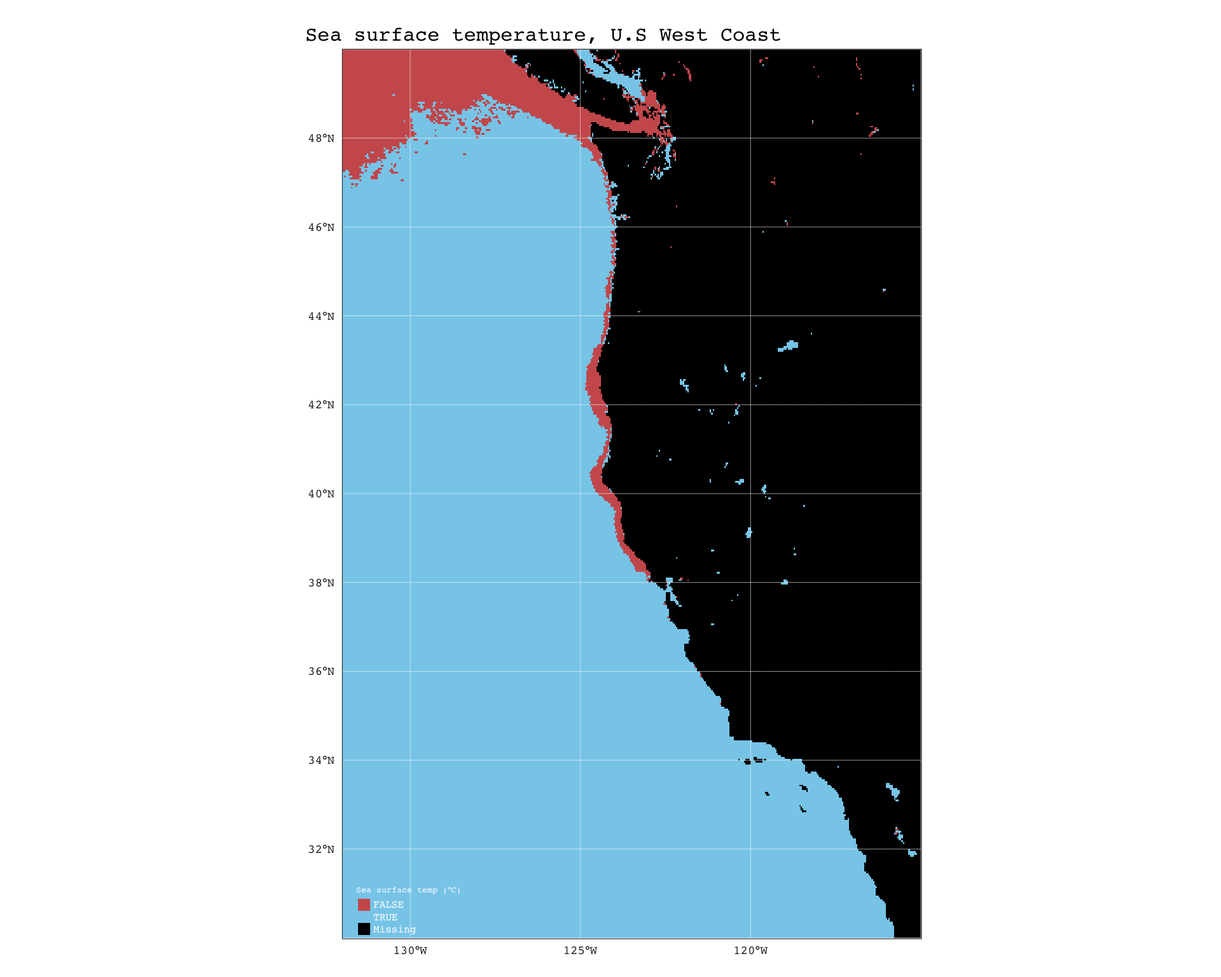
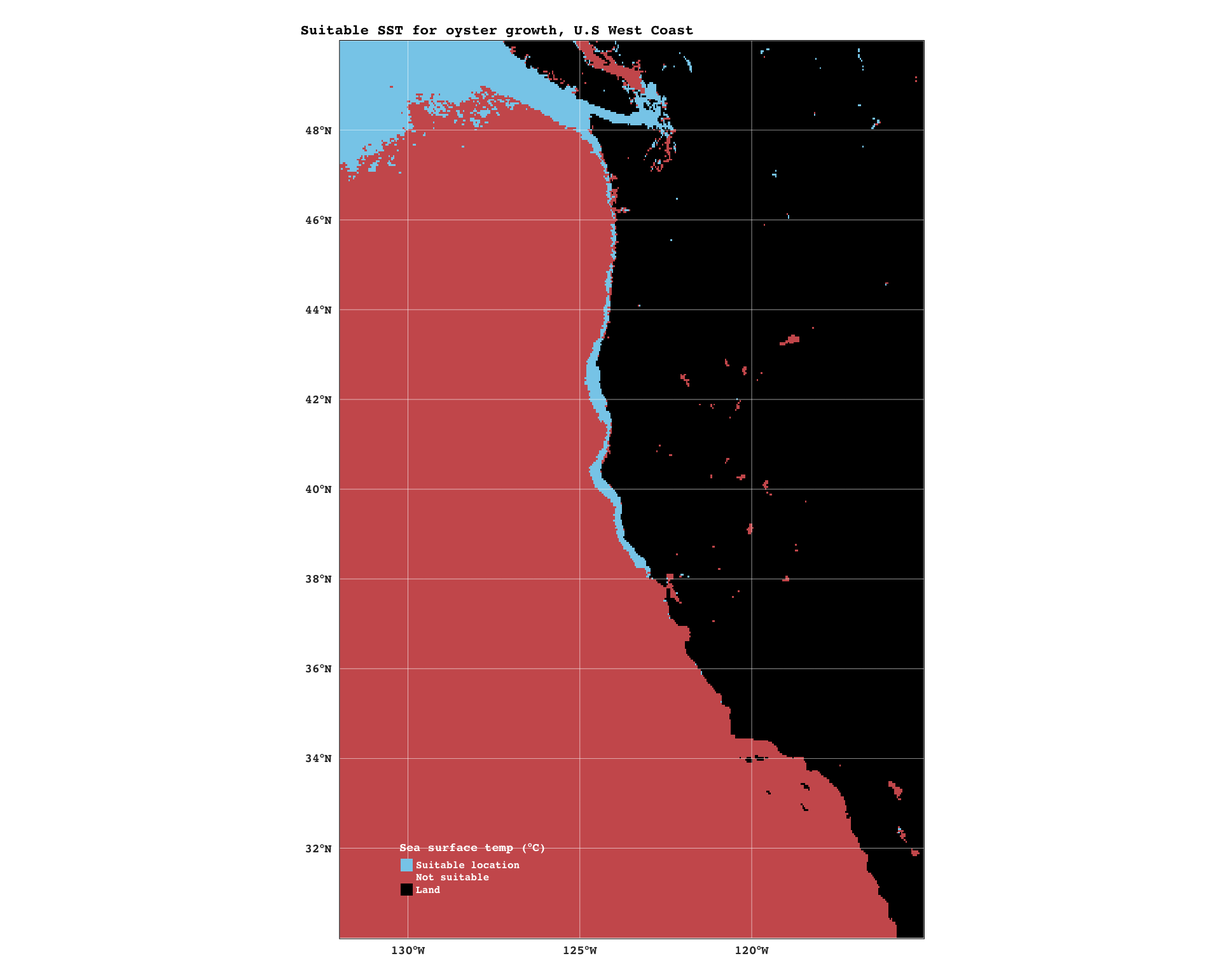
working on making depths above sea level equal NA

diff --git a/HW4.html b/HW4.html
@@ -7,7 +7,7 @@
 <meta name="viewport" content="width=device-width, initial-scale=1.0, user-scalable=yes">
 
 <meta name="author" content="Kaiju Morquecho">
-<meta name="dcterms.date" content="2024-12-05">
+<meta name="dcterms.date" content="2024-12-06">
 
 <title>Homework Assignment #4</title>
 <style>
@@ -81,7 +81,7 @@ pre > code.sourceCode > span > a:first-child::before { text-decoration: underlin
     <h2 id="toc-title">Table of contents</h2>
    
   <ul>
-  <li><a href="#sea-surface-temperature-11-30c" id="toc-sea-surface-temperature-11-30c" class="nav-link active" data-scroll-target="#sea-surface-temperature-11-30c">sea surface temperature: 11-30°C</a></li>
+  <li><a href="#sea-surface-temperature-11-30c-done" id="toc-sea-surface-temperature-11-30c-done" class="nav-link active" data-scroll-target="#sea-surface-temperature-11-30c-done">sea surface temperature: 11-30°C done</a></li>
   <li><a href="#depth-0-70-meters-below-sea-level" id="toc-depth-0-70-meters-below-sea-level" class="nav-link" data-scroll-target="#depth-0-70-meters-below-sea-level">depth: 0-70 meters below sea level</a></li>
   </ul>
 </nav>
@@ -108,7 +108,7 @@ pre > code.sourceCode > span > a:first-child::before { text-decoration: underlin
     <div>
     <div class="quarto-title-meta-heading">Published</div>
     <div class="quarto-title-meta-contents">
-      <p class="date">December 5, 2024</p>
+      <p class="date">December 6, 2024</p>
     </div>
   </div>
   
@@ -172,8 +172,8 @@ pre > code.sourceCode > span > a:first-child::before { text-decoration: underlin
 </div>
 <div class="cell">
 <div class="sourceCode cell-code" id="cb12"><pre class="sourceCode r code-with-copy"><code class="sourceCode r"><span id="cb12-1"><a href="#cb12-1" aria-hidden="true" tabindex="-1"></a>map1 <span class="ot">&lt;-</span> <span class="fu">tm_shape</span>(mean_sst) <span class="sc">+</span></span>
-<span id="cb12-2"><a href="#cb12-2" aria-hidden="true" tabindex="-1"></a>  <span class="fu">tm_raster</span>(<span class="at">palette =</span> <span class="fu">rev</span>(<span class="fu">hcl.colors</span>(<span class="dv">8</span>,<span class="st">"Mako"</span>)),</span>
-<span id="cb12-3"><a href="#cb12-3" aria-hidden="true" tabindex="-1"></a>            <span class="at">style =</span> <span class="st">"cont"</span>,</span>
+<span id="cb12-2"><a href="#cb12-2" aria-hidden="true" tabindex="-1"></a>  <span class="fu">tm_raster</span>(<span class="at">palette =</span> <span class="fu">rev</span>(<span class="fu">hcl.colors</span>(<span class="dv">5</span>,<span class="st">"YlGnBu"</span>)),</span>
+<span id="cb12-3"><a href="#cb12-3" aria-hidden="true" tabindex="-1"></a>            <span class="at">style =</span> <span class="st">"pretty"</span>,</span>
 <span id="cb12-4"><a href="#cb12-4" aria-hidden="true" tabindex="-1"></a>            <span class="at">colorNA =</span> <span class="st">"black"</span>,</span>
 <span id="cb12-5"><a href="#cb12-5" aria-hidden="true" tabindex="-1"></a>            <span class="at">title =</span> <span class="st">"Sea surface temp (°C)"</span>,</span>
 <span id="cb12-6"><a href="#cb12-6" aria-hidden="true" tabindex="-1"></a>            ) <span class="sc">+</span></span>
@@ -182,14 +182,15 @@ pre > code.sourceCode > span > a:first-child::before { text-decoration: underlin
 <span id="cb12-9"><a href="#cb12-9" aria-hidden="true" tabindex="-1"></a>  <span class="fu">tm_layout</span>(<span class="at">fontfamily =</span> <span class="st">"courier"</span>,</span>
 <span id="cb12-10"><a href="#cb12-10" aria-hidden="true" tabindex="-1"></a>            <span class="at">main.title =</span> <span class="st">"Sea surface temperature, U.S West Coast"</span>,</span>
 <span id="cb12-11"><a href="#cb12-11" aria-hidden="true" tabindex="-1"></a>            <span class="at">main.title.size =</span> <span class="dv">1</span>,</span>
-<span id="cb12-12"><a href="#cb12-12" aria-hidden="true" tabindex="-1"></a>            <span class="at">legend.position =</span> <span class="fu">c</span>(<span class="st">"left"</span>,<span class="st">"BOTTOM"</span>),</span>
-<span id="cb12-13"><a href="#cb12-13" aria-hidden="true" tabindex="-1"></a>            <span class="at">legend.text.size =</span> <span class="fl">0.5</span>,</span>
-<span id="cb12-14"><a href="#cb12-14" aria-hidden="true" tabindex="-1"></a>            <span class="at">legend.title.color =</span> <span class="st">"black"</span>,</span>
-<span id="cb12-15"><a href="#cb12-15" aria-hidden="true" tabindex="-1"></a>            <span class="at">legend.text.color =</span> <span class="st">"black"</span>,</span>
-<span id="cb12-16"><a href="#cb12-16" aria-hidden="true" tabindex="-1"></a>            <span class="at">legend.height =</span> <span class="dv">5</span>,</span>
-<span id="cb12-17"><a href="#cb12-17" aria-hidden="true" tabindex="-1"></a>            <span class="at">legend.title.size =</span> <span class="fl">0.5</span>)</span>
-<span id="cb12-18"><a href="#cb12-18" aria-hidden="true" tabindex="-1"></a></span>
-<span id="cb12-19"><a href="#cb12-19" aria-hidden="true" tabindex="-1"></a>map1</span></code><button title="Copy to Clipboard" class="code-copy-button"><i class="bi"></i></button></pre></div>
+<span id="cb12-12"><a href="#cb12-12" aria-hidden="true" tabindex="-1"></a>            <span class="at">inner.margins =</span> <span class="fu">c</span>(<span class="fl">0.001</span>, <span class="fl">0.001</span>, <span class="fl">0.001</span>, <span class="fl">0.001</span>),</span>
+<span id="cb12-13"><a href="#cb12-13" aria-hidden="true" tabindex="-1"></a>            <span class="at">legend.position =</span> <span class="fu">c</span>(<span class="st">"left"</span>,<span class="st">"BOTTOM"</span>),</span>
+<span id="cb12-14"><a href="#cb12-14" aria-hidden="true" tabindex="-1"></a>            <span class="at">legend.text.size =</span> <span class="fl">0.5</span>,</span>
+<span id="cb12-15"><a href="#cb12-15" aria-hidden="true" tabindex="-1"></a>            <span class="at">legend.title.color =</span> <span class="st">"black"</span>,</span>
+<span id="cb12-16"><a href="#cb12-16" aria-hidden="true" tabindex="-1"></a>            <span class="at">legend.text.color =</span> <span class="st">"black"</span>,</span>
+<span id="cb12-17"><a href="#cb12-17" aria-hidden="true" tabindex="-1"></a>            <span class="at">legend.height =</span> <span class="dv">5</span>,</span>
+<span id="cb12-18"><a href="#cb12-18" aria-hidden="true" tabindex="-1"></a>            <span class="at">legend.title.size =</span> <span class="fl">0.5</span>)</span>
+<span id="cb12-19"><a href="#cb12-19" aria-hidden="true" tabindex="-1"></a></span>
+<span id="cb12-20"><a href="#cb12-20" aria-hidden="true" tabindex="-1"></a>map1</span></code><button title="Copy to Clipboard" class="code-copy-button"><i class="bi"></i></button></pre></div>
 <div class="cell-output-display">
 <div>
 <figure class="figure">
@@ -199,101 +200,189 @@ pre > code.sourceCode > span > a:first-child::before { text-decoration: underlin
 </div>
 </div>
 <div class="cell">
-<div class="sourceCode cell-code" id="cb13"><pre class="sourceCode r code-with-copy"><code class="sourceCode r"><span id="cb13-1"><a href="#cb13-1" aria-hidden="true" tabindex="-1"></a><span class="co"># check that depth matches mean_sst crs and transform if not</span></span>
-<span id="cb13-2"><a href="#cb13-2" aria-hidden="true" tabindex="-1"></a><span class="cf">if</span>(<span class="fu">st_crs</span>(mean_sst) <span class="sc">==</span> <span class="fu">st_crs</span>(depth)) {</span>
-<span id="cb13-3"><a href="#cb13-3" aria-hidden="true" tabindex="-1"></a>  <span class="fu">print</span>(<span class="st">"crs match!"</span>)</span>
-<span id="cb13-4"><a href="#cb13-4" aria-hidden="true" tabindex="-1"></a>} <span class="cf">else</span> { </span>
-<span id="cb13-5"><a href="#cb13-5" aria-hidden="true" tabindex="-1"></a>  depth <span class="ot">&lt;-</span> <span class="fu">st_transform</span>(depth, <span class="fu">st_crs</span>(mean_sst))</span>
-<span id="cb13-6"><a href="#cb13-6" aria-hidden="true" tabindex="-1"></a>}</span></code><button title="Copy to Clipboard" class="code-copy-button"><i class="bi"></i></button></pre></div>
+<div class="sourceCode cell-code" id="cb13"><pre class="sourceCode r code-with-copy"><code class="sourceCode r"><span id="cb13-1"><a href="#cb13-1" aria-hidden="true" tabindex="-1"></a>test<span class="ot">&lt;-</span> <span class="fu">read_stars</span>(<span class="fu">here</span>(<span class="st">"data"</span>,<span class="st">"depth.tif"</span>))</span>
+<span id="cb13-2"><a href="#cb13-2" aria-hidden="true" tabindex="-1"></a></span>
+<span id="cb13-3"><a href="#cb13-3" aria-hidden="true" tabindex="-1"></a>test[test <span class="sc">&gt;</span> <span class="dv">0</span>] <span class="ot">&lt;-</span> <span class="cn">NA</span></span>
+<span id="cb13-4"><a href="#cb13-4" aria-hidden="true" tabindex="-1"></a></span>
+<span id="cb13-5"><a href="#cb13-5" aria-hidden="true" tabindex="-1"></a></span>
+<span id="cb13-6"><a href="#cb13-6" aria-hidden="true" tabindex="-1"></a>map2 <span class="ot">&lt;-</span> <span class="fu">tm_shape</span>(test) <span class="sc">+</span></span>
+<span id="cb13-7"><a href="#cb13-7" aria-hidden="true" tabindex="-1"></a>  <span class="fu">tm_raster</span>(<span class="at">palette =</span> <span class="fu">rev</span>(<span class="fu">hcl.colors</span>(<span class="dv">8</span>,<span class="st">"Mako"</span>)),</span>
+<span id="cb13-8"><a href="#cb13-8" aria-hidden="true" tabindex="-1"></a>            <span class="at">style =</span> <span class="st">"cont"</span>,</span>
+<span id="cb13-9"><a href="#cb13-9" aria-hidden="true" tabindex="-1"></a>            <span class="at">colorNA =</span> <span class="st">"black"</span>,</span>
+<span id="cb13-10"><a href="#cb13-10" aria-hidden="true" tabindex="-1"></a>            <span class="at">title =</span> <span class="st">"Sea surface temp (°C)"</span>,</span>
+<span id="cb13-11"><a href="#cb13-11" aria-hidden="true" tabindex="-1"></a>            ) <span class="sc">+</span></span>
+<span id="cb13-12"><a href="#cb13-12" aria-hidden="true" tabindex="-1"></a>  <span class="fu">tm_graticules</span>(<span class="at">lwd =</span> <span class="fl">0.3</span>,</span>
+<span id="cb13-13"><a href="#cb13-13" aria-hidden="true" tabindex="-1"></a>                <span class="at">col =</span> <span class="st">"white"</span>) <span class="sc">+</span></span>
+<span id="cb13-14"><a href="#cb13-14" aria-hidden="true" tabindex="-1"></a>  <span class="fu">tm_layout</span>(<span class="at">fontfamily =</span> <span class="st">"courier"</span>,</span>
+<span id="cb13-15"><a href="#cb13-15" aria-hidden="true" tabindex="-1"></a>            <span class="at">main.title =</span> <span class="st">"Sea surface temperature, U.S West Coast"</span>,</span>
+<span id="cb13-16"><a href="#cb13-16" aria-hidden="true" tabindex="-1"></a>            <span class="at">main.title.size =</span> <span class="dv">1</span>,</span>
+<span id="cb13-17"><a href="#cb13-17" aria-hidden="true" tabindex="-1"></a>            <span class="at">legend.position =</span> <span class="fu">c</span>(<span class="st">"left"</span>,<span class="st">"BOTTOM"</span>),</span>
+<span id="cb13-18"><a href="#cb13-18" aria-hidden="true" tabindex="-1"></a>            <span class="at">legend.text.size =</span> <span class="fl">0.5</span>,</span>
+<span id="cb13-19"><a href="#cb13-19" aria-hidden="true" tabindex="-1"></a>            <span class="at">legend.title.color =</span> <span class="st">"black"</span>,</span>
+<span id="cb13-20"><a href="#cb13-20" aria-hidden="true" tabindex="-1"></a>            <span class="at">legend.text.color =</span> <span class="st">"black"</span>,</span>
+<span id="cb13-21"><a href="#cb13-21" aria-hidden="true" tabindex="-1"></a>            <span class="at">legend.height =</span> <span class="dv">5</span>,</span>
+<span id="cb13-22"><a href="#cb13-22" aria-hidden="true" tabindex="-1"></a>            <span class="at">legend.title.size =</span> <span class="fl">0.5</span>)</span>
+<span id="cb13-23"><a href="#cb13-23" aria-hidden="true" tabindex="-1"></a></span>
+<span id="cb13-24"><a href="#cb13-24" aria-hidden="true" tabindex="-1"></a>map2</span></code><button title="Copy to Clipboard" class="code-copy-button"><i class="bi"></i></button></pre></div>
+<div class="cell-output-display">
+<div>
+<figure class="figure">
+<p><img src="HW4_files/figure-html/unnamed-chunk-5-1.png" class="img-fluid figure-img" width="672"></p>
+</figure>
+</div>
+</div>
 </div>
 <div class="cell">
-<div class="sourceCode cell-code" id="cb14"><pre class="sourceCode r code-with-copy"><code class="sourceCode r"><span id="cb14-1"><a href="#cb14-1" aria-hidden="true" tabindex="-1"></a><span class="co"># double-check after transformation </span></span>
+<div class="sourceCode cell-code" id="cb14"><pre class="sourceCode r code-with-copy"><code class="sourceCode r"><span id="cb14-1"><a href="#cb14-1" aria-hidden="true" tabindex="-1"></a><span class="co"># check that depth matches mean_sst crs and transform if not</span></span>
 <span id="cb14-2"><a href="#cb14-2" aria-hidden="true" tabindex="-1"></a><span class="cf">if</span>(<span class="fu">st_crs</span>(mean_sst) <span class="sc">==</span> <span class="fu">st_crs</span>(depth)) {</span>
 <span id="cb14-3"><a href="#cb14-3" aria-hidden="true" tabindex="-1"></a>  <span class="fu">print</span>(<span class="st">"crs match!"</span>)</span>
 <span id="cb14-4"><a href="#cb14-4" aria-hidden="true" tabindex="-1"></a>} <span class="cf">else</span> { </span>
-<span id="cb14-5"><a href="#cb14-5" aria-hidden="true" tabindex="-1"></a>  <span class="fu">print</span>(<span class="st">"crs don't match!"</span>)</span>
+<span id="cb14-5"><a href="#cb14-5" aria-hidden="true" tabindex="-1"></a>  depth <span class="ot">&lt;-</span> <span class="fu">st_transform</span>(depth, <span class="fu">st_crs</span>(mean_sst))</span>
 <span id="cb14-6"><a href="#cb14-6" aria-hidden="true" tabindex="-1"></a>}</span></code><button title="Copy to Clipboard" class="code-copy-button"><i class="bi"></i></button></pre></div>
+</div>
+<div class="cell">
+<div class="sourceCode cell-code" id="cb15"><pre class="sourceCode r code-with-copy"><code class="sourceCode r"><span id="cb15-1"><a href="#cb15-1" aria-hidden="true" tabindex="-1"></a><span class="co"># double-check after transformation </span></span>
+<span id="cb15-2"><a href="#cb15-2" aria-hidden="true" tabindex="-1"></a><span class="cf">if</span>(<span class="fu">st_crs</span>(mean_sst) <span class="sc">==</span> <span class="fu">st_crs</span>(depth)) {</span>
+<span id="cb15-3"><a href="#cb15-3" aria-hidden="true" tabindex="-1"></a>  <span class="fu">print</span>(<span class="st">"crs match!"</span>)</span>
+<span id="cb15-4"><a href="#cb15-4" aria-hidden="true" tabindex="-1"></a>} <span class="cf">else</span> { </span>
+<span id="cb15-5"><a href="#cb15-5" aria-hidden="true" tabindex="-1"></a>  <span class="fu">print</span>(<span class="st">"crs don't match!"</span>)</span>
+<span id="cb15-6"><a href="#cb15-6" aria-hidden="true" tabindex="-1"></a>}</span></code><button title="Copy to Clipboard" class="code-copy-button"><i class="bi"></i></button></pre></div>
 <div class="cell-output cell-output-stdout">
 <pre><code>[1] "crs match!"</code></pre>
 </div>
 </div>
 <div class="cell">
-<div class="sourceCode cell-code" id="cb16"><pre class="sourceCode r code-with-copy"><code class="sourceCode r"><span id="cb16-1"><a href="#cb16-1" aria-hidden="true" tabindex="-1"></a><span class="co"># match extents and resample to mean_sst resolution using nearest neighbor ("near")</span></span>
-<span id="cb16-2"><a href="#cb16-2" aria-hidden="true" tabindex="-1"></a>depth_resampled <span class="ot">&lt;-</span> <span class="fu">st_warp</span>(depth,mean_sst, <span class="at">method =</span> <span class="st">"near"</span>)</span>
-<span id="cb16-3"><a href="#cb16-3" aria-hidden="true" tabindex="-1"></a><span class="co"># stack to verify</span></span>
-<span id="cb16-4"><a href="#cb16-4" aria-hidden="true" tabindex="-1"></a>depth_sst <span class="ot">&lt;-</span> <span class="fu">c</span>(depth_resampled,mean_sst)</span>
-<span id="cb16-5"><a href="#cb16-5" aria-hidden="true" tabindex="-1"></a><span class="co"># stacked successfully </span></span></code><button title="Copy to Clipboard" class="code-copy-button"><i class="bi"></i></button></pre></div>
+<div class="sourceCode cell-code" id="cb17"><pre class="sourceCode r code-with-copy"><code class="sourceCode r"><span id="cb17-1"><a href="#cb17-1" aria-hidden="true" tabindex="-1"></a><span class="co"># match extents and resample to mean_sst resolution using nearest neighbor ("near")</span></span>
+<span id="cb17-2"><a href="#cb17-2" aria-hidden="true" tabindex="-1"></a>depth_resampled <span class="ot">&lt;-</span> <span class="fu">st_warp</span>(depth,mean_sst, <span class="at">method =</span> <span class="st">"near"</span>)</span>
+<span id="cb17-3"><a href="#cb17-3" aria-hidden="true" tabindex="-1"></a><span class="co"># stack to verify</span></span>
+<span id="cb17-4"><a href="#cb17-4" aria-hidden="true" tabindex="-1"></a>depth_sst <span class="ot">&lt;-</span> <span class="fu">c</span>(depth_resampled,mean_sst)</span>
+<span id="cb17-5"><a href="#cb17-5" aria-hidden="true" tabindex="-1"></a><span class="co"># stacked successfully </span></span></code><button title="Copy to Clipboard" class="code-copy-button"><i class="bi"></i></button></pre></div>
 </div>
 </section>
 <section id="find-suitable-locations-for-oysters" class="level5">
 <h5 class="anchored" data-anchor-id="find-suitable-locations-for-oysters">Find suitable locations for oysters</h5>
 <div class="cell">
-<div class="sourceCode cell-code" id="cb17"><pre class="sourceCode r code-with-copy"><code class="sourceCode r"><span id="cb17-1"><a href="#cb17-1" aria-hidden="true" tabindex="-1"></a>rcl <span class="ot">&lt;-</span> <span class="fu">matrix</span>(<span class="fu">c</span>(<span class="sc">-</span><span class="cn">Inf</span>, <span class="dv">11</span>, <span class="dv">0</span>,</span>
-<span id="cb17-2"><a href="#cb17-2" aria-hidden="true" tabindex="-1"></a>                <span class="dv">11</span>, <span class="dv">30</span>, <span class="dv">1</span>,</span>
-<span id="cb17-3"><a href="#cb17-3" aria-hidden="true" tabindex="-1"></a>                <span class="dv">30</span>, <span class="cn">Inf</span>, <span class="dv">0</span>),</span>
-<span id="cb17-4"><a href="#cb17-4" aria-hidden="true" tabindex="-1"></a>                <span class="at">ncol =</span> <span class="dv">3</span>, <span class="at">byrow =</span> <span class="cn">TRUE</span>)</span>
-<span id="cb17-5"><a href="#cb17-5" aria-hidden="true" tabindex="-1"></a></span>
-<span id="cb17-6"><a href="#cb17-6" aria-hidden="true" tabindex="-1"></a>reclassified <span class="ot">&lt;-</span> <span class="fu">classify</span>(<span class="fu">rast</span>(mean_sst), <span class="at">rcl =</span> rcl)</span>
-<span id="cb17-7"><a href="#cb17-7" aria-hidden="true" tabindex="-1"></a></span>
-<span id="cb17-8"><a href="#cb17-8" aria-hidden="true" tabindex="-1"></a>map2 <span class="ot">&lt;-</span> <span class="fu">tm_shape</span>(reclassified <span class="sc">==</span> <span class="dv">1</span>) <span class="sc">+</span></span>
-<span id="cb17-9"><a href="#cb17-9" aria-hidden="true" tabindex="-1"></a>  <span class="fu">tm_raster</span>(<span class="at">palette =</span> <span class="fu">c</span>(<span class="st">"indianred"</span>,<span class="st">"skyblue"</span>),</span>
-<span id="cb17-10"><a href="#cb17-10" aria-hidden="true" tabindex="-1"></a>            <span class="at">style =</span> <span class="st">"cat"</span>,</span>
-<span id="cb17-11"><a href="#cb17-11" aria-hidden="true" tabindex="-1"></a>            <span class="at">breaks =</span> <span class="fu">c</span>(<span class="dv">11</span>,<span class="dv">14</span>, <span class="dv">17</span>, <span class="dv">20</span>, <span class="dv">23</span>, <span class="dv">26</span>, <span class="dv">29</span>, <span class="dv">30</span>),</span>
-<span id="cb17-12"><a href="#cb17-12" aria-hidden="true" tabindex="-1"></a>            <span class="at">colorNA =</span> <span class="st">"black"</span>,</span>
-<span id="cb17-13"><a href="#cb17-13" aria-hidden="true" tabindex="-1"></a>            <span class="at">title =</span> <span class="st">"Sea surface temp (°C)"</span>,</span>
-<span id="cb17-14"><a href="#cb17-14" aria-hidden="true" tabindex="-1"></a>            ) <span class="sc">+</span></span>
-<span id="cb17-15"><a href="#cb17-15" aria-hidden="true" tabindex="-1"></a>  <span class="fu">tm_graticules</span>(<span class="at">lwd =</span> <span class="fl">0.3</span>, </span>
-<span id="cb17-16"><a href="#cb17-16" aria-hidden="true" tabindex="-1"></a>                <span class="at">col =</span> <span class="st">"white"</span>) <span class="sc">+</span></span>
-<span id="cb17-17"><a href="#cb17-17" aria-hidden="true" tabindex="-1"></a>  <span class="fu">tm_layout</span>(<span class="at">fontfamily =</span> <span class="st">"courier"</span>,</span>
-<span id="cb17-18"><a href="#cb17-18" aria-hidden="true" tabindex="-1"></a>            <span class="at">main.title =</span> <span class="st">"Sea surface temperature, U.S West Coast"</span>,</span>
-<span id="cb17-19"><a href="#cb17-19" aria-hidden="true" tabindex="-1"></a>            <span class="at">main.title.size =</span> <span class="dv">1</span>,</span>
-<span id="cb17-20"><a href="#cb17-20" aria-hidden="true" tabindex="-1"></a>            <span class="at">legend.position =</span> <span class="fu">c</span>(<span class="st">"left"</span>,<span class="st">"BOTTOM"</span>),</span>
-<span id="cb17-21"><a href="#cb17-21" aria-hidden="true" tabindex="-1"></a>            <span class="at">legend.text.size =</span> <span class="fl">0.5</span>,</span>
-<span id="cb17-22"><a href="#cb17-22" aria-hidden="true" tabindex="-1"></a>            <span class="at">legend.title.color =</span> <span class="st">"white"</span>,</span>
-<span id="cb17-23"><a href="#cb17-23" aria-hidden="true" tabindex="-1"></a>            <span class="at">legend.text.color =</span> <span class="st">"white"</span>,</span>
-<span id="cb17-24"><a href="#cb17-24" aria-hidden="true" tabindex="-1"></a>            <span class="at">legend.height =</span> <span class="dv">5</span>,</span>
-<span id="cb17-25"><a href="#cb17-25" aria-hidden="true" tabindex="-1"></a>            <span class="at">legend.title.size =</span> <span class="fl">0.5</span>,</span>
-<span id="cb17-26"><a href="#cb17-26" aria-hidden="true" tabindex="-1"></a>            <span class="at">inner.margins =</span> <span class="fu">c</span>(<span class="fl">0.001</span>, <span class="fl">0.001</span>, <span class="fl">0.001</span>, <span class="fl">0.001</span>))</span>
-<span id="cb17-27"><a href="#cb17-27" aria-hidden="true" tabindex="-1"></a>map2</span></code><button title="Copy to Clipboard" class="code-copy-button"><i class="bi"></i></button></pre></div>
+<div class="sourceCode cell-code" id="cb18"><pre class="sourceCode r code-with-copy"><code class="sourceCode r"><span id="cb18-1"><a href="#cb18-1" aria-hidden="true" tabindex="-1"></a><span class="co"># reclassify mean_sst</span></span>
+<span id="cb18-2"><a href="#cb18-2" aria-hidden="true" tabindex="-1"></a>rcl_sst <span class="ot">&lt;-</span> <span class="fu">matrix</span>(<span class="fu">c</span>(<span class="sc">-</span><span class="cn">Inf</span>, <span class="dv">11</span>, <span class="dv">0</span>,</span>
+<span id="cb18-3"><a href="#cb18-3" aria-hidden="true" tabindex="-1"></a>                <span class="dv">11</span>, <span class="dv">30</span>, <span class="dv">1</span>,</span>
+<span id="cb18-4"><a href="#cb18-4" aria-hidden="true" tabindex="-1"></a>                <span class="dv">30</span>, <span class="cn">Inf</span>, <span class="dv">0</span>),</span>
+<span id="cb18-5"><a href="#cb18-5" aria-hidden="true" tabindex="-1"></a>                <span class="at">ncol =</span> <span class="dv">3</span>, <span class="at">byrow =</span> <span class="cn">TRUE</span>)</span>
+<span id="cb18-6"><a href="#cb18-6" aria-hidden="true" tabindex="-1"></a></span>
+<span id="cb18-7"><a href="#cb18-7" aria-hidden="true" tabindex="-1"></a>mean_sst <span class="ot">&lt;-</span> <span class="fu">rast</span>(mean_sst)</span>
+<span id="cb18-8"><a href="#cb18-8" aria-hidden="true" tabindex="-1"></a></span>
+<span id="cb18-9"><a href="#cb18-9" aria-hidden="true" tabindex="-1"></a>reclassified_sst <span class="ot">&lt;-</span> <span class="fu">classify</span>(mean_sst, <span class="at">rcl =</span> rcl_sst)</span>
+<span id="cb18-10"><a href="#cb18-10" aria-hidden="true" tabindex="-1"></a></span>
+<span id="cb18-11"><a href="#cb18-11" aria-hidden="true" tabindex="-1"></a><span class="co"># reclassify depth</span></span>
+<span id="cb18-12"><a href="#cb18-12" aria-hidden="true" tabindex="-1"></a>rcl_depth <span class="ot">&lt;-</span> <span class="fu">matrix</span>(<span class="fu">c</span>(<span class="sc">-</span><span class="cn">Inf</span>, <span class="dv">0</span>, <span class="dv">0</span>,</span>
+<span id="cb18-13"><a href="#cb18-13" aria-hidden="true" tabindex="-1"></a>                <span class="dv">0</span>, <span class="dv">70</span>, <span class="dv">1</span>,</span>
+<span id="cb18-14"><a href="#cb18-14" aria-hidden="true" tabindex="-1"></a>                <span class="dv">70</span>, <span class="cn">Inf</span>, <span class="dv">0</span>),</span>
+<span id="cb18-15"><a href="#cb18-15" aria-hidden="true" tabindex="-1"></a>                <span class="at">ncol =</span> <span class="dv">3</span>, <span class="at">byrow =</span> <span class="cn">TRUE</span>)</span>
+<span id="cb18-16"><a href="#cb18-16" aria-hidden="true" tabindex="-1"></a></span>
+<span id="cb18-17"><a href="#cb18-17" aria-hidden="true" tabindex="-1"></a>depth_resampled <span class="ot">&lt;-</span> <span class="fu">rast</span>(depth_resampled)</span>
+<span id="cb18-18"><a href="#cb18-18" aria-hidden="true" tabindex="-1"></a></span>
+<span id="cb18-19"><a href="#cb18-19" aria-hidden="true" tabindex="-1"></a>reclassified_depth <span class="ot">&lt;-</span> <span class="fu">classify</span>(depth_resampled, <span class="at">rcl =</span> rcl_depth)</span>
+<span id="cb18-20"><a href="#cb18-20" aria-hidden="true" tabindex="-1"></a></span>
+<span id="cb18-21"><a href="#cb18-21" aria-hidden="true" tabindex="-1"></a>suitable_locations <span class="ot">&lt;-</span> reclassified_sst <span class="sc">*</span> reclassified_depth</span></code><button title="Copy to Clipboard" class="code-copy-button"><i class="bi"></i></button></pre></div>
+</div>
+<div class="cell">
+<div class="sourceCode cell-code" id="cb19"><pre class="sourceCode r code-with-copy"><code class="sourceCode r"><span id="cb19-1"><a href="#cb19-1" aria-hidden="true" tabindex="-1"></a>map3 <span class="ot">&lt;-</span> <span class="fu">tm_shape</span>(reclassified_sst) <span class="sc">+</span></span>
+<span id="cb19-2"><a href="#cb19-2" aria-hidden="true" tabindex="-1"></a>  <span class="fu">tm_raster</span>(<span class="at">palette =</span> <span class="fu">c</span>(<span class="st">"indianred"</span>,<span class="st">"skyblue"</span>),</span>
+<span id="cb19-3"><a href="#cb19-3" aria-hidden="true" tabindex="-1"></a>            <span class="at">style =</span> <span class="st">"cat"</span>,</span>
+<span id="cb19-4"><a href="#cb19-4" aria-hidden="true" tabindex="-1"></a>            <span class="at">colorNA =</span> <span class="st">"black"</span>,</span>
+<span id="cb19-5"><a href="#cb19-5" aria-hidden="true" tabindex="-1"></a>            <span class="at">title =</span> <span class="st">"Sea surface temp (°C)"</span>,</span>
+<span id="cb19-6"><a href="#cb19-6" aria-hidden="true" tabindex="-1"></a>            <span class="at">labels =</span> <span class="fu">c</span>(<span class="st">"Not suitable"</span>,<span class="st">"Suitable location"</span>),</span>
+<span id="cb19-7"><a href="#cb19-7" aria-hidden="true" tabindex="-1"></a>            <span class="at">textNA =</span> <span class="st">"Land"</span>) <span class="sc">+</span> </span>
+<span id="cb19-8"><a href="#cb19-8" aria-hidden="true" tabindex="-1"></a>  <span class="fu">tm_graticules</span>(<span class="at">lwd =</span> <span class="fl">0.3</span>, </span>
+<span id="cb19-9"><a href="#cb19-9" aria-hidden="true" tabindex="-1"></a>                <span class="at">col =</span> <span class="st">"white"</span>) <span class="sc">+</span></span>
+<span id="cb19-10"><a href="#cb19-10" aria-hidden="true" tabindex="-1"></a>  <span class="fu">tm_layout</span>(<span class="at">fontfamily =</span> <span class="st">"courier"</span>,</span>
+<span id="cb19-11"><a href="#cb19-11" aria-hidden="true" tabindex="-1"></a>            <span class="at">fontface =</span> <span class="st">"bold"</span>,</span>
+<span id="cb19-12"><a href="#cb19-12" aria-hidden="true" tabindex="-1"></a>            <span class="at">main.title =</span> <span class="st">"Suitable SST (°C) for oyster growth, U.S West Coast"</span>,</span>
+<span id="cb19-13"><a href="#cb19-13" aria-hidden="true" tabindex="-1"></a>            <span class="at">main.title.size =</span> <span class="fl">0.7</span>,</span>
+<span id="cb19-14"><a href="#cb19-14" aria-hidden="true" tabindex="-1"></a>            <span class="at">inner.margins =</span> <span class="fu">c</span>(<span class="fl">0.001</span>, <span class="fl">0.001</span>, <span class="fl">0.001</span>, <span class="fl">0.001</span>),</span>
+<span id="cb19-15"><a href="#cb19-15" aria-hidden="true" tabindex="-1"></a>            <span class="at">legend.position =</span> <span class="fu">c</span>(<span class="fl">0.57</span>,<span class="fl">0.8</span>),</span>
+<span id="cb19-16"><a href="#cb19-16" aria-hidden="true" tabindex="-1"></a>            <span class="at">legend.frame =</span> <span class="cn">FALSE</span>,</span>
+<span id="cb19-17"><a href="#cb19-17" aria-hidden="true" tabindex="-1"></a>            <span class="at">legend.text.size =</span> <span class="fl">0.4</span>,</span>
+<span id="cb19-18"><a href="#cb19-18" aria-hidden="true" tabindex="-1"></a>            <span class="at">legend.title.size =</span> <span class="fl">0.6</span>,</span>
+<span id="cb19-19"><a href="#cb19-19" aria-hidden="true" tabindex="-1"></a>            <span class="at">legend.title.color =</span> <span class="st">"white"</span>,</span>
+<span id="cb19-20"><a href="#cb19-20" aria-hidden="true" tabindex="-1"></a>            <span class="at">legend.text.color =</span> <span class="st">"white"</span>,</span>
+<span id="cb19-21"><a href="#cb19-21" aria-hidden="true" tabindex="-1"></a>            <span class="at">legend.text.fontface =</span> <span class="st">"bold"</span>,</span>
+<span id="cb19-22"><a href="#cb19-22" aria-hidden="true" tabindex="-1"></a>            <span class="at">legend.title.fontface =</span> <span class="st">"bold"</span>)</span>
+<span id="cb19-23"><a href="#cb19-23" aria-hidden="true" tabindex="-1"></a>map3</span></code><button title="Copy to Clipboard" class="code-copy-button"><i class="bi"></i></button></pre></div>
 <div class="cell-output-display">
 <div>
 <figure class="figure">
-<p><img src="HW4_files/figure-html/unnamed-chunk-8-1.png" class="img-fluid figure-img" width="960"></p>
+<p><img src="HW4_files/figure-html/unnamed-chunk-10-1.png" class="img-fluid figure-img" width="960"></p>
 </figure>
 </div>
 </div>
 </div>
 <div class="cell">
-<div class="sourceCode cell-code" id="cb18"><pre class="sourceCode r code-with-copy"><code class="sourceCode r"><span id="cb18-1"><a href="#cb18-1" aria-hidden="true" tabindex="-1"></a>map3 <span class="ot">&lt;-</span> <span class="fu">tm_shape</span>(depth_resampled) <span class="sc">+</span></span>
-<span id="cb18-2"><a href="#cb18-2" aria-hidden="true" tabindex="-1"></a>  <span class="fu">tm_raster</span>(<span class="at">palette =</span> <span class="fu">rev</span>(<span class="fu">hcl.colors</span>(<span class="dv">8</span>,<span class="st">"Mako"</span>)),</span>
-<span id="cb18-3"><a href="#cb18-3" aria-hidden="true" tabindex="-1"></a>            <span class="at">style =</span> <span class="st">"cont"</span>,</span>
-<span id="cb18-4"><a href="#cb18-4" aria-hidden="true" tabindex="-1"></a>            <span class="at">colorNA =</span> <span class="st">"black"</span>,</span>
-<span id="cb18-5"><a href="#cb18-5" aria-hidden="true" tabindex="-1"></a>            <span class="at">title =</span> <span class="st">"Sea surface temp (°C)"</span>,</span>
-<span id="cb18-6"><a href="#cb18-6" aria-hidden="true" tabindex="-1"></a>            ) <span class="sc">+</span></span>
-<span id="cb18-7"><a href="#cb18-7" aria-hidden="true" tabindex="-1"></a>  <span class="fu">tm_graticules</span>(<span class="at">lwd =</span> <span class="fl">0.3</span>, </span>
-<span id="cb18-8"><a href="#cb18-8" aria-hidden="true" tabindex="-1"></a>                <span class="at">col =</span> <span class="st">"white"</span>) <span class="sc">+</span></span>
-<span id="cb18-9"><a href="#cb18-9" aria-hidden="true" tabindex="-1"></a>  <span class="fu">tm_layout</span>(<span class="at">fontfamily =</span> <span class="st">"courier"</span>,</span>
-<span id="cb18-10"><a href="#cb18-10" aria-hidden="true" tabindex="-1"></a>            <span class="at">main.title =</span> <span class="st">"Depth, U.S West Coast"</span>,</span>
-<span id="cb18-11"><a href="#cb18-11" aria-hidden="true" tabindex="-1"></a>            <span class="at">main.title.size =</span> <span class="dv">1</span>,</span>
-<span id="cb18-12"><a href="#cb18-12" aria-hidden="true" tabindex="-1"></a>            <span class="at">legend.position =</span> <span class="fu">c</span>(<span class="st">"left"</span>,<span class="st">"BOTTOM"</span>),</span>
-<span id="cb18-13"><a href="#cb18-13" aria-hidden="true" tabindex="-1"></a>            <span class="at">legend.text.size =</span> <span class="fl">0.5</span>,</span>
-<span id="cb18-14"><a href="#cb18-14" aria-hidden="true" tabindex="-1"></a>            <span class="at">legend.title.color =</span> <span class="st">"black"</span>,</span>
-<span id="cb18-15"><a href="#cb18-15" aria-hidden="true" tabindex="-1"></a>            <span class="at">legend.text.color =</span> <span class="st">"black"</span>,</span>
-<span id="cb18-16"><a href="#cb18-16" aria-hidden="true" tabindex="-1"></a>            <span class="at">legend.height =</span> <span class="dv">5</span>,</span>
-<span id="cb18-17"><a href="#cb18-17" aria-hidden="true" tabindex="-1"></a>            <span class="at">legend.title.size =</span> <span class="fl">0.5</span>)</span>
-<span id="cb18-18"><a href="#cb18-18" aria-hidden="true" tabindex="-1"></a></span>
-<span id="cb18-19"><a href="#cb18-19" aria-hidden="true" tabindex="-1"></a>map1</span></code><button title="Copy to Clipboard" class="code-copy-button"><i class="bi"></i></button></pre></div>
+<div class="sourceCode cell-code" id="cb20"><pre class="sourceCode r code-with-copy"><code class="sourceCode r"><span id="cb20-1"><a href="#cb20-1" aria-hidden="true" tabindex="-1"></a>map4 <span class="ot">&lt;-</span> <span class="fu">tm_shape</span>(reclassified_depth) <span class="sc">+</span></span>
+<span id="cb20-2"><a href="#cb20-2" aria-hidden="true" tabindex="-1"></a>  <span class="fu">tm_raster</span>(<span class="at">palette =</span> <span class="fu">c</span>(<span class="st">"indianred"</span>,<span class="st">"skyblue"</span>),</span>
+<span id="cb20-3"><a href="#cb20-3" aria-hidden="true" tabindex="-1"></a>            <span class="at">style =</span> <span class="st">"cat"</span>,</span>
+<span id="cb20-4"><a href="#cb20-4" aria-hidden="true" tabindex="-1"></a>            <span class="at">colorNA =</span> <span class="st">"black"</span>,</span>
+<span id="cb20-5"><a href="#cb20-5" aria-hidden="true" tabindex="-1"></a>            <span class="at">title =</span> <span class="st">"Suitability"</span>,</span>
+<span id="cb20-6"><a href="#cb20-6" aria-hidden="true" tabindex="-1"></a>            <span class="at">labels =</span> <span class="fu">c</span>(<span class="st">"Not suitable"</span>,<span class="st">"Suitable location"</span>),</span>
+<span id="cb20-7"><a href="#cb20-7" aria-hidden="true" tabindex="-1"></a>            <span class="at">textNA =</span> <span class="st">"Land"</span>) <span class="sc">+</span></span>
+<span id="cb20-8"><a href="#cb20-8" aria-hidden="true" tabindex="-1"></a>  <span class="fu">tm_graticules</span>(<span class="at">lwd =</span> <span class="fl">0.3</span>, </span>
+<span id="cb20-9"><a href="#cb20-9" aria-hidden="true" tabindex="-1"></a>                <span class="at">col =</span> <span class="st">"white"</span>) <span class="sc">+</span></span>
+<span id="cb20-10"><a href="#cb20-10" aria-hidden="true" tabindex="-1"></a>  <span class="fu">tm_layout</span>(<span class="at">fontfamily =</span> <span class="st">"courier"</span>,</span>
+<span id="cb20-11"><a href="#cb20-11" aria-hidden="true" tabindex="-1"></a>            <span class="at">main.title =</span> <span class="st">"Suitable depth(m) for oyster growth, U.S West Coast"</span>,</span>
+<span id="cb20-12"><a href="#cb20-12" aria-hidden="true" tabindex="-1"></a>            <span class="at">main.title.size =</span> <span class="fl">0.7</span>,</span>
+<span id="cb20-13"><a href="#cb20-13" aria-hidden="true" tabindex="-1"></a>            <span class="at">inner.margins =</span> <span class="fu">c</span>(<span class="fl">0.001</span>, <span class="fl">0.001</span>, <span class="fl">0.001</span>, <span class="fl">0.001</span>),</span>
+<span id="cb20-14"><a href="#cb20-14" aria-hidden="true" tabindex="-1"></a>            <span class="at">legend.position =</span> <span class="fu">c</span>(<span class="fl">0.57</span>,<span class="fl">0.8</span>),</span>
+<span id="cb20-15"><a href="#cb20-15" aria-hidden="true" tabindex="-1"></a>            <span class="at">legend.frame =</span> <span class="cn">FALSE</span>,</span>
+<span id="cb20-16"><a href="#cb20-16" aria-hidden="true" tabindex="-1"></a>            <span class="at">legend.text.size =</span> <span class="fl">0.4</span>,</span>
+<span id="cb20-17"><a href="#cb20-17" aria-hidden="true" tabindex="-1"></a>            <span class="at">legend.title.size =</span> <span class="fl">0.6</span>,</span>
+<span id="cb20-18"><a href="#cb20-18" aria-hidden="true" tabindex="-1"></a>            <span class="at">legend.title.color =</span> <span class="st">"white"</span>,</span>
+<span id="cb20-19"><a href="#cb20-19" aria-hidden="true" tabindex="-1"></a>            <span class="at">legend.text.color =</span> <span class="st">"white"</span>,</span>
+<span id="cb20-20"><a href="#cb20-20" aria-hidden="true" tabindex="-1"></a>            <span class="at">legend.text.fontface =</span> <span class="st">"bold"</span>,</span>
+<span id="cb20-21"><a href="#cb20-21" aria-hidden="true" tabindex="-1"></a>            <span class="at">legend.title.fontface =</span> <span class="st">"bold"</span>)</span>
+<span id="cb20-22"><a href="#cb20-22" aria-hidden="true" tabindex="-1"></a></span>
+<span id="cb20-23"><a href="#cb20-23" aria-hidden="true" tabindex="-1"></a>map4</span></code><button title="Copy to Clipboard" class="code-copy-button"><i class="bi"></i></button></pre></div>
 <div class="cell-output-display">
 <div>
 <figure class="figure">
-<p><img src="HW4_files/figure-html/unnamed-chunk-9-1.png" class="img-fluid figure-img" width="672"></p>
+<p><img src="HW4_files/figure-html/unnamed-chunk-11-1.png" class="img-fluid figure-img" width="672"></p>
+</figure>
+</div>
+</div>
+</div>
+<div class="cell">
+<div class="sourceCode cell-code" id="cb21"><pre class="sourceCode r code-with-copy"><code class="sourceCode r"><span id="cb21-1"><a href="#cb21-1" aria-hidden="true" tabindex="-1"></a>map5 <span class="ot">&lt;-</span> <span class="fu">tm_shape</span>(suitable_locations) <span class="sc">+</span></span>
+<span id="cb21-2"><a href="#cb21-2" aria-hidden="true" tabindex="-1"></a>  <span class="fu">tm_raster</span>(<span class="at">palette =</span>  <span class="fu">c</span>(<span class="st">"indianred"</span>,<span class="st">"skyblue"</span>),</span>
+<span id="cb21-3"><a href="#cb21-3" aria-hidden="true" tabindex="-1"></a>            <span class="at">style =</span> <span class="st">"cat"</span>,</span>
+<span id="cb21-4"><a href="#cb21-4" aria-hidden="true" tabindex="-1"></a>            <span class="at">colorNA =</span> <span class="st">"black"</span>,</span>
+<span id="cb21-5"><a href="#cb21-5" aria-hidden="true" tabindex="-1"></a>            <span class="at">title =</span> <span class="st">"Suitability"</span>,</span>
+<span id="cb21-6"><a href="#cb21-6" aria-hidden="true" tabindex="-1"></a>            <span class="at">labels =</span> <span class="fu">c</span>(<span class="st">"Not suitable"</span>,<span class="st">"Suitable location"</span>),</span>
+<span id="cb21-7"><a href="#cb21-7" aria-hidden="true" tabindex="-1"></a>            <span class="at">textNA =</span> <span class="st">"Land"</span>) <span class="sc">+</span></span>
+<span id="cb21-8"><a href="#cb21-8" aria-hidden="true" tabindex="-1"></a>  <span class="fu">tm_graticules</span>(<span class="at">lwd =</span> <span class="fl">0.3</span>, </span>
+<span id="cb21-9"><a href="#cb21-9" aria-hidden="true" tabindex="-1"></a>                <span class="at">col =</span> <span class="st">"white"</span>) <span class="sc">+</span></span>
+<span id="cb21-10"><a href="#cb21-10" aria-hidden="true" tabindex="-1"></a>  <span class="fu">tm_layout</span>(<span class="at">fontfamily =</span> <span class="st">"courier"</span>,</span>
+<span id="cb21-11"><a href="#cb21-11" aria-hidden="true" tabindex="-1"></a>            <span class="at">main.title =</span> <span class="st">"Suitable oyster growth locations (m)(°C)"</span>,</span>
+<span id="cb21-12"><a href="#cb21-12" aria-hidden="true" tabindex="-1"></a>            <span class="at">main.title.size =</span> <span class="fl">0.7</span>,</span>
+<span id="cb21-13"><a href="#cb21-13" aria-hidden="true" tabindex="-1"></a>            <span class="at">inner.margins =</span> <span class="fu">c</span>(<span class="fl">0.001</span>, <span class="fl">0.001</span>, <span class="fl">0.001</span>, <span class="fl">0.001</span>),</span>
+<span id="cb21-14"><a href="#cb21-14" aria-hidden="true" tabindex="-1"></a>            <span class="at">legend.position =</span> <span class="fu">c</span>(<span class="fl">0.57</span>,<span class="fl">0.8</span>),</span>
+<span id="cb21-15"><a href="#cb21-15" aria-hidden="true" tabindex="-1"></a>            <span class="at">legend.frame =</span> <span class="cn">FALSE</span>,</span>
+<span id="cb21-16"><a href="#cb21-16" aria-hidden="true" tabindex="-1"></a>            <span class="at">legend.text.size =</span> <span class="fl">0.4</span>,</span>
+<span id="cb21-17"><a href="#cb21-17" aria-hidden="true" tabindex="-1"></a>            <span class="at">legend.title.size =</span> <span class="fl">0.6</span>,</span>
+<span id="cb21-18"><a href="#cb21-18" aria-hidden="true" tabindex="-1"></a>            <span class="at">legend.title.color =</span> <span class="st">"white"</span>,</span>
+<span id="cb21-19"><a href="#cb21-19" aria-hidden="true" tabindex="-1"></a>            <span class="at">legend.text.color =</span> <span class="st">"white"</span>,</span>
+<span id="cb21-20"><a href="#cb21-20" aria-hidden="true" tabindex="-1"></a>            <span class="at">legend.text.fontface =</span> <span class="st">"bold"</span>,</span>
+<span id="cb21-21"><a href="#cb21-21" aria-hidden="true" tabindex="-1"></a>            <span class="at">legend.title.fontface =</span> <span class="st">"bold"</span>)</span>
+<span id="cb21-22"><a href="#cb21-22" aria-hidden="true" tabindex="-1"></a></span>
+<span id="cb21-23"><a href="#cb21-23" aria-hidden="true" tabindex="-1"></a>map5</span></code><button title="Copy to Clipboard" class="code-copy-button"><i class="bi"></i></button></pre></div>
+<div class="cell-output-display">
+<div>
+<figure class="figure">
+<p><img src="HW4_files/figure-html/unnamed-chunk-12-1.png" class="img-fluid figure-img" width="672"></p>
 </figure>
 </div>
 </div>
 </div>
 </section>
-<section id="sea-surface-temperature-11-30c" class="level2">
-<h2 class="anchored" data-anchor-id="sea-surface-temperature-11-30c">sea surface temperature: 11-30°C</h2>
+<section id="sea-surface-temperature-11-30c-done" class="level2">
+<h2 class="anchored" data-anchor-id="sea-surface-temperature-11-30c-done">sea surface temperature: 11-30°C done</h2>
 </section>
 <section id="depth-0-70-meters-below-sea-level" class="level2">
 <h2 class="anchored" data-anchor-id="depth-0-70-meters-below-sea-level">depth: 0-70 meters below sea level</h2>
